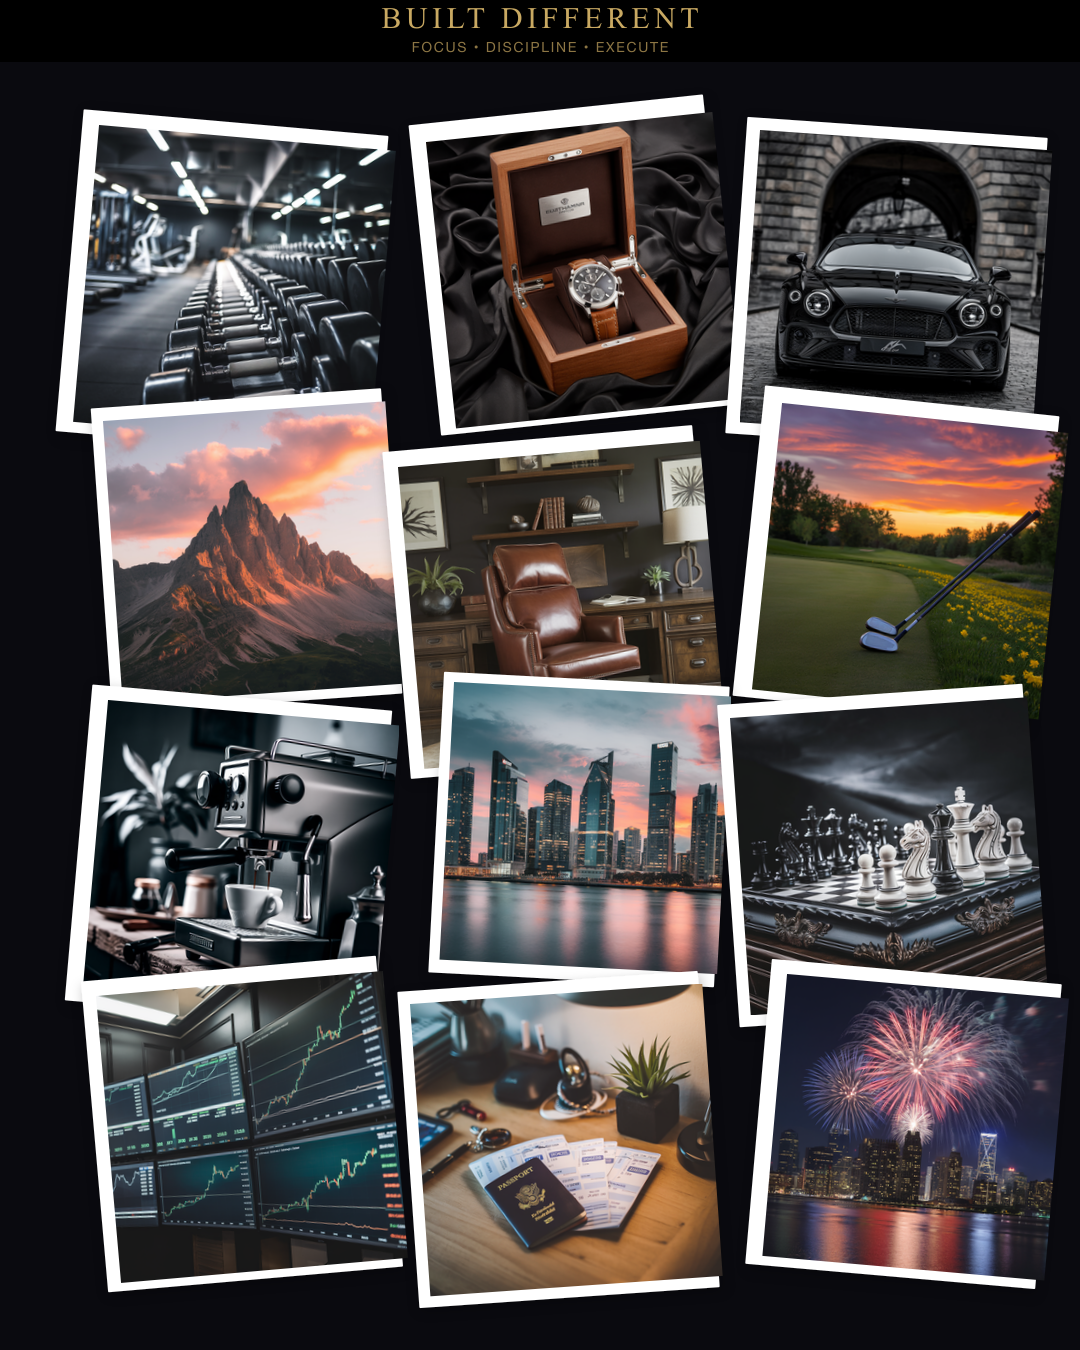
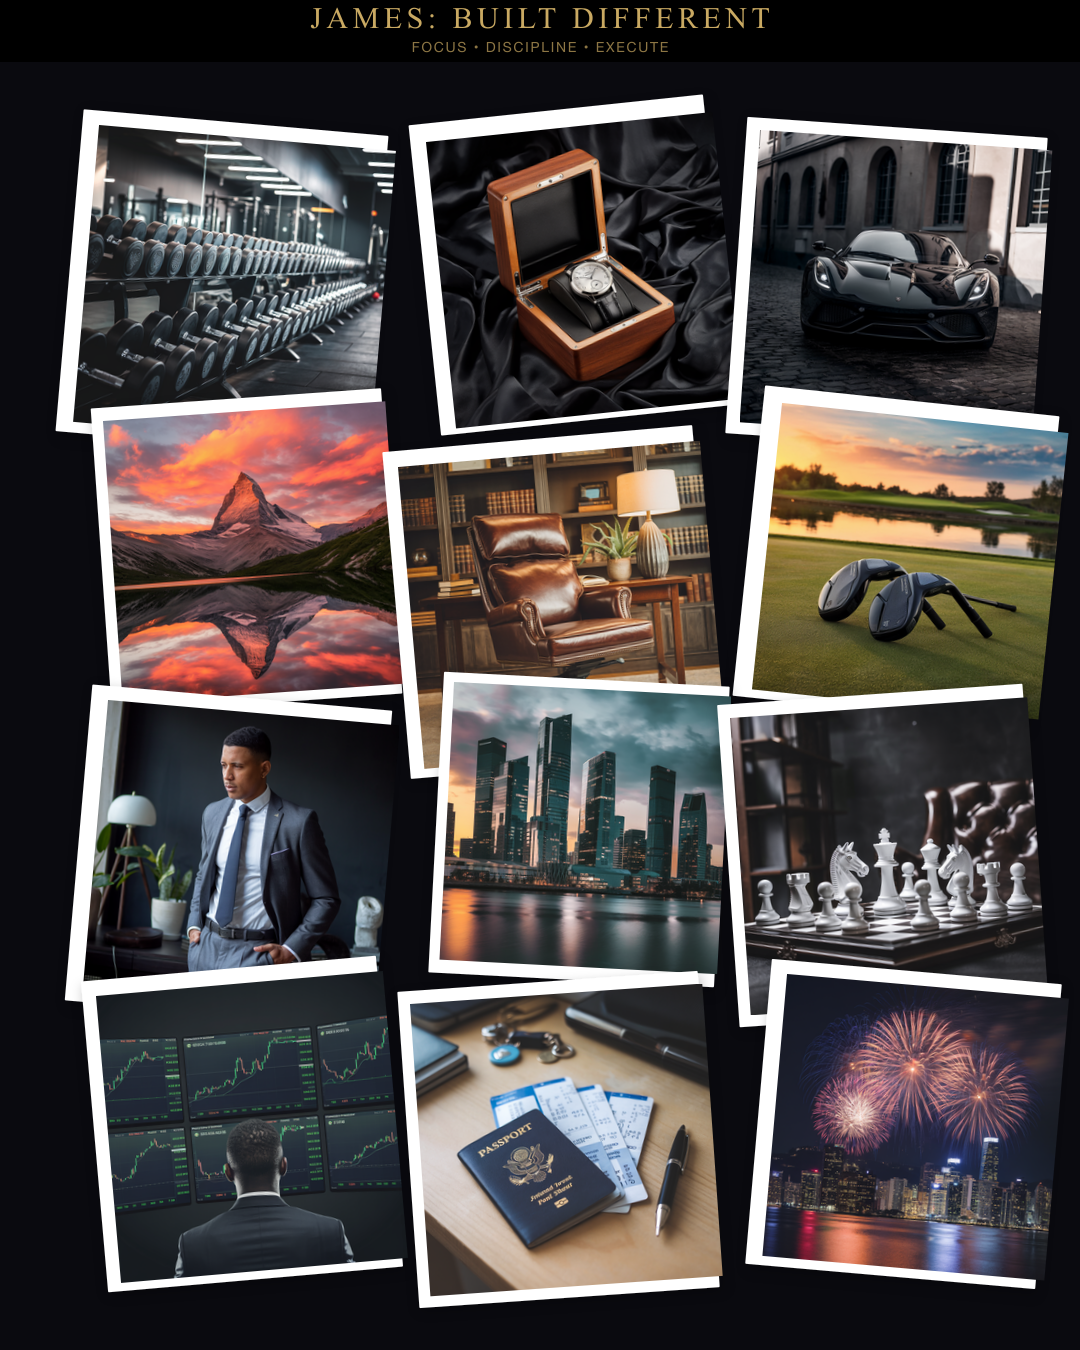
Fix demos page: replace old Santa demos with new 5 videos
- Updated demoLessons.ts to use new videos from /santa-demos/
- Replaced Emma/Jake/Lily with Emma/James/Sofia/Elijah/Lily
- All videos now have bright CTA format

🤖 Generated with [Claude Code](https://claude.com/claude-code)

diff --git a/src/pages/demoLessons.ts b/src/pages/demoLessons.ts
@@ -33,12 +33,12 @@ export function renderDemoLessonsPage(): string {
 
           <div class="demo-grid vision-grid">
             <div class="demo-card vision-card">
-              <div class="image-container clickable-image" onclick="openLightbox('/demos/sample-vision-board-male.png', 'Built Different')">
-                <img src="/demos/sample-vision-board-male.png" alt="Built Different - Personalized Vision Board" loading="lazy">
+              <div class="image-container clickable-image" onclick="openLightbox('/demos/sample-vision-board-male.png', 'James: Built Different')">
+                <img src="/demos/sample-vision-board-male.png" alt="James: Built Different - Personalized Vision Board" loading="lazy">
                 <div class="image-overlay"><span>Click to view full screen</span></div>
               </div>
               <div class="demo-info">
-                <h3>Built Different</h3>
+                <h3>James: Built Different</h3>
                 <p>A bold vision board focused on discipline, execution, and achieving greatness</p>
                 <div class="demo-tags">
                   <span class="tag vision">Fully Custom</span>
@@ -63,12 +63,12 @@ export function renderDemoLessonsPage(): string {
             </div>
 
             <div class="demo-card vision-card">
-              <div class="image-container clickable-image" onclick="openLightbox('/demos/sample-vision-board-relationship.png', 'Our 3-Month Reset')">
-                <img src="/demos/sample-vision-board-relationship.png" alt="Our 3-Month Reset - Personalized Vision Board" loading="lazy">
+              <div class="image-container clickable-image" onclick="openLightbox('/demos/sample-vision-board-relationship.png', 'Jane & Jon\\'s 3-Month Reset')">
+                <img src="/demos/sample-vision-board-relationship.png" alt="Jane & Jon's 3-Month Reset - Personalized Vision Board" loading="lazy">
                 <div class="image-overlay"><span>Click to view full screen</span></div>
               </div>
               <div class="demo-info">
-                <h3>Our 3-Month Reset</h3>
+                <h3>Jane & Jon's 3-Month Reset</h3>
                 <p>A couples' vision board for reconnecting and realigning your shared goals</p>
                 <div class="demo-tags">
                   <span class="tag vision">Fully Custom</span>
@@ -162,16 +162,16 @@ export function renderDemoLessonsPage(): string {
             <div class="demo-card santa-card">
               <div class="video-container portrait">
                 <video controls preload="metadata">
-                  <source src="/demos/santa-emma-preview.mp4" type="video/mp4">
+                  <source src="/santa-demos/emma_invisible.mp4" type="video/mp4">
                   Your browser does not support video.
                 </video>
               </div>
               <div class="demo-info">
-                <h3>Emma's Santa Message</h3>
-                <p>Age 7 • References her love of ballet and her pet hamster</p>
+                <h3>Emma: Feeling Invisible</h3>
+                <p>Santa sees her kind heart and tells her she matters</p>
                 <div class="demo-tags">
-                  <span class="tag santa">Personal Details</span>
-                  <span class="tag">Christmas Magic</span>
+                  <span class="tag santa">Emotional</span>
+                  <span class="tag">Validation</span>
                 </div>
               </div>
             </div>
@@ -179,16 +179,16 @@ export function renderDemoLessonsPage(): string {
             <div class="demo-card santa-card">
               <div class="video-container portrait">
                 <video controls preload="metadata">
-                  <source src="/demos/santa-jake-preview.mp4" type="video/mp4">
+                  <source src="/santa-demos/james_protecting.mp4" type="video/mp4">
                   Your browser does not support video.
                 </video>
               </div>
               <div class="demo-info">
-                <h3>Jake's Santa Message</h3>
-                <p>Age 5 • Knows about his dinosaur collection and best friend</p>
+                <h3>James: Protecting His Sister</h3>
+                <p>Santa celebrates his courage and bravery</p>
                 <div class="demo-tags">
-                  <span class="tag santa">Specific Names</span>
-                  <span class="tag">Emotional</span>
+                  <span class="tag santa">Courage</span>
+                  <span class="tag">Sibling</span>
                 </div>
               </div>
             </div>
@@ -196,16 +196,50 @@ export function renderDemoLessonsPage(): string {
             <div class="demo-card santa-card">
               <div class="video-container portrait">
                 <video controls preload="metadata">
-                  <source src="/demos/santa-lily-preview.mp4" type="video/mp4">
+                  <source src="/santa-demos/sofia_smart.mp4" type="video/mp4">
                   Your browser does not support video.
                 </video>
               </div>
               <div class="demo-info">
-                <h3>Lily's Santa Message</h3>
-                <p>Age 9 • Mentions her soccer team and upcoming recital</p>
+                <h3>Sofia: Not Smart Enough</h3>
+                <p>Santa reminds her that effort matters more than being perfect</p>
                 <div class="demo-tags">
-                  <span class="tag santa">Upcoming Events</span>
-                  <span class="tag">Encouraging</span>
+                  <span class="tag santa">Encouragement</span>
+                  <span class="tag">Growth</span>
+                </div>
+              </div>
+            </div>
+
+            <div class="demo-card santa-card">
+              <div class="video-container portrait">
+                <video controls preload="metadata">
+                  <source src="/santa-demos/elijah_kindness.mp4" type="video/mp4">
+                  Your browser does not support video.
+                </video>
+              </div>
+              <div class="demo-info">
+                <h3>Elijah: Unnoticed Kindness</h3>
+                <p>Santa tells him the kindest hearts do good when no one's watching</p>
+                <div class="demo-tags">
+                  <span class="tag santa">Kindness</span>
+                  <span class="tag">Validation</span>
+                </div>
+              </div>
+            </div>
+
+            <div class="demo-card santa-card">
+              <div class="video-container portrait">
+                <video controls preload="metadata">
+                  <source src="/santa-demos/lily_moved.mp4" type="video/mp4">
+                  Your browser does not support video.
+                </video>
+              </div>
+              <div class="demo-info">
+                <h3>Lily: Just Moved</h3>
+                <p>Santa encourages her that new friendships are coming</p>
+                <div class="demo-tags">
+                  <span class="tag santa">New Start</span>
+                  <span class="tag">Hope</span>
                 </div>
               </div>
             </div>

diff --git a/src/lib/visionBoardEngineV12.js b/src/lib/visionBoardEngineV12.js
@@ -35,6 +35,19 @@ const FONTS = {
 function selectFonts(style) {
   const mood = (style?.mood || '').toLowerCase();
   const isMasculine = mood.includes('masculine') || mood.includes('dark') || mood.includes('discipline');
+  // Detect relationship/couples boards - use NEUTRAL font (not masculine smallcaps, not feminine script)
+  const isRelationship = mood.includes('couple') || mood.includes('relationship') || mood.includes('together') || mood.includes('partner');
+
+  // For relationship boards: use elegant serif (Cormorant Garamond) - neither masculine nor feminine
+  if (isRelationship) {
+    return {
+      title: "Cormorant Garamond",  // Elegant, gender-neutral serif
+      titleTransform: 'none',
+      titleLetterSpacing: '0.05em',
+      quote: FONTS.serifQuote,
+      text: FONTS.serifCaps
+    };
+  }
 
   return {
     title: isMasculine ? FONTS.serifCaps : FONTS.script,

diff --git a/scripts/regenerateDemoVisionBoards.js b/scripts/regenerateDemoVisionBoards.js
@@ -16,7 +16,7 @@ const { generateVisionBoard } = require('../src/lib/visionBoardEngineV12');
 const DEMO_BOARDS = [
   {
     id: 'male',
-    title: "BUILT DIFFERENT",
+    title: "JAMES: BUILT DIFFERENT",
     subtitle: "FOCUS • DISCIPLINE • EXECUTE",
     outputFile: 'sample-vision-board-male.png',
     colors: {
@@ -84,7 +84,7 @@ const DEMO_BOARDS = [
       bannerSubtext: 'rgba(255,255,255,0.8)',
       accents: ['#D4A574', '#B8956E', '#E8D4C4', '#C9A962']
     },
-    style: { mood: 'warm romantic cozy intimate' },
+    style: { mood: 'warm romantic cozy intimate couple relationship' },
     photos: [
       // Relationship-focused imagery WITHOUT humans/body parts:
       "two coffee cups on wooden table, morning together, cozy aesthetic",
